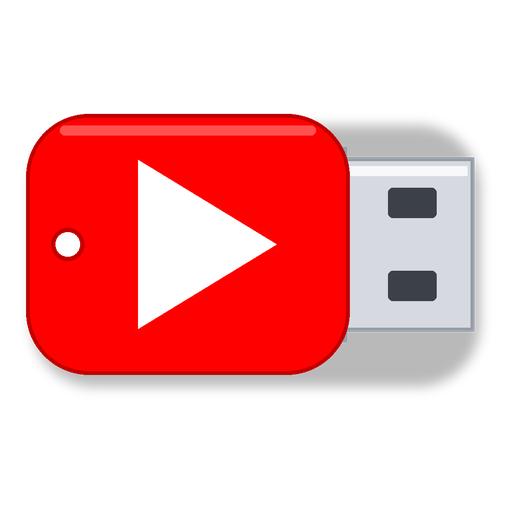
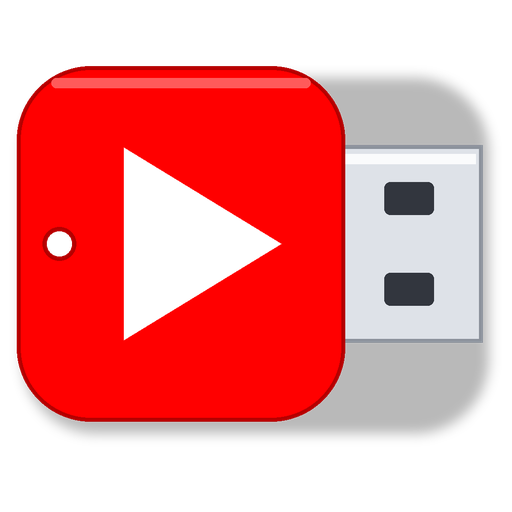
Simge: gorev cubugu boyutlari icin ayri, kalin ve kontrastli cizim
Yatay sekil kareyi yarim dolduruyordu: 20-32 px'te kucuk ve bulanik gorunuyordu.  Kucuk boyutlar (<64 px) icin govdesi
karenin ~%80'ini dolduran, buyuk oynat isaretli, iki delikli USB basligi acik gri ayri bir cizim; 20 ve 40 px boyutlari eklendi.

diff --git a/ikon/ikon_uret.py b/ikon/ikon_uret.py
@@ -1,7 +1,8 @@
 """YT-Arsiv simgesini uretir: ikon\\yt-arsiv.ico (16-256 px) + ikon\\yt-arsiv.png (onizleme).
 
 Tasarim: YATAY USB FLAS BELLEK.  Solda YouTube kirmizisi govde ve ortasinda beyaz OYNAT isareti; saga bakan metal USB-A basligi.
-Oynat isareti ile USB basligi AYNI YONE (saga) bakar: "YouTube'dan oynat -> belleğe/diske kaydet".
+Oynat isareti ile USB basligi AYNI YONE (saga) bakar: "YouTube'dan oynat -> bellege/diske kaydet".
+Iki cizim: BUYUK (>=48 px: ayrintili) ve KUCUK (gorev cubugu 16-40 px: govde kareye yakin, kalin sekiller, yuksek kontrast).
 Calistirma:  python ikon\\ikon_uret.py   (Pillow gerekir; yalniz simge degisecekse)
 """
 from pathlib import Path
@@ -11,70 +12,65 @@ from PIL import Image, ImageDraw, ImageFilter
 KLASOR = Path(__file__).resolve().parent
 S = 1024                          # cizim boyutu (sonra kuculur: kenar yumusatma)
 KIRMIZI = (255, 0, 0, 255)        # YouTube kirmizisi
-KIRMIZI_KOYU = (190, 0, 0, 255)
-KIRMIZI_ACIK = (255, 80, 80, 255)
+KIRMIZI_KOYU = (180, 0, 0, 255)
+KIRMIZI_ACIK = (255, 90, 90, 255)
 BEYAZ = (255, 255, 255, 255)
-METAL = (214, 218, 224, 255)      # USB basligi (gumus)
-METAL_KOYU = (150, 156, 166, 255)
-METAL_ACIK = (246, 248, 250, 255)
-DELIK = (60, 64, 72, 255)
+METAL = (222, 226, 232, 255)      # USB basligi (gumus)
+METAL_KOYU = (140, 146, 156, 255)
+METAL_ACIK = (250, 251, 252, 255)
+DELIK = (50, 54, 62, 255)
 GOLGE = (0, 0, 0, 70)
 
 
-def ciz(ayrinti=True):
+def ciz(kucuk=False):
     im = Image.new("RGBA", (S, S), (0, 0, 0, 0))
     cy = S // 2
-    # --- olculer ---
-    g_sol, g_sag = 50, 720                                   # govde x araligi
-    g_h = 540                                                # govde yuksekligi
+    # --- olculer: kucukte govde daha yuksek, baslik daha kisa (kareyi doldurur) ---
+    g_sol, g_sag = 40, 700 if kucuk else 705
+    g_h = 820 if kucuk else 720
     g_ust, g_alt = cy - g_h // 2, cy + g_h // 2
-    r = 130
-    b_sol, b_sag = g_sag - 40, S - 46                        # baslik x araligi (govdeye biner)
-    b_h = 360
+    r = 170 if kucuk else 150
+    b_sol, b_sag = g_sag - 40, S - 40
+    b_h = 440 if kucuk else 400
     b_ust, b_alt = cy - b_h // 2, cy + b_h // 2
 
-    # golge
-    g = Image.new("RGBA", (S, S), (0, 0, 0, 0))
-    ImageDraw.Draw(g).rounded_rectangle((g_sol + 12, g_ust + 24, b_sag + 12, g_alt + 24), radius=r, fill=GOLGE)
-    im.alpha_composite(g.filter(ImageFilter.GaussianBlur(12)))
+    if not kucuk:                                           # golge (yalniz buyuk boyutta)
+        g = Image.new("RGBA", (S, S), (0, 0, 0, 0))
+        ImageDraw.Draw(g).rounded_rectangle((g_sol + 12, g_ust + 24, b_sag + 12, g_alt + 24), radius=r, fill=GOLGE)
+        im.alpha_composite(g.filter(ImageFilter.GaussianBlur(12)))
     d = ImageDraw.Draw(im)
 
-    # --- USB-A basligi (metal, saga bakar) --- govdenin ARKASINDA cizilir (govde onu kismen kapatir)
+    # --- USB-A basligi (metal, saga bakar): govdenin ARKASINDA ---
     d.rectangle((b_sol, b_ust, b_sag, b_alt), fill=METAL)
-    d.rectangle((b_sol, b_ust, b_sag, b_alt), outline=METAL_KOYU, width=8)
-    d.rectangle((b_sol + 14, b_ust + 18, b_sag - 14, b_ust + 38), fill=METAL_ACIK)           # ust parlak serit
-    # iki baglanti deligi (alt alta: baslik saga baktigi icin)
-    dh, dw = 62, 100
-    dx = b_sol + 120
-    if ayrinti:
-        d.rounded_rectangle((dx, cy - 86 - dh // 2, dx + dw, cy - 86 + dh // 2), radius=10, fill=DELIK)
-        d.rounded_rectangle((dx, cy + 86 - dh // 2, dx + dw, cy + 86 + dh // 2), radius=10, fill=DELIK)
-    else:
-        d.rectangle((dx - 6, cy - 120, dx + dw + 20, cy - 40), fill=DELIK)
-        d.rectangle((dx - 6, cy + 40, dx + dw + 20, cy + 120), fill=DELIK)
-    # baslik - govde birlesim halkasi
-    d.rectangle((b_sol - 6, b_ust - 22, b_sol + 34, b_alt + 22), fill=METAL_KOYU)
+    d.rectangle((b_sol, b_ust, b_sag, b_alt), outline=METAL_KOYU, width=14 if kucuk else 8)
+    if not kucuk:
+        d.rectangle((b_sol + 14, b_ust + 18, b_sag - 14, b_ust + 38), fill=METAL_ACIK)
+    # iki baglanti deligi (alt alta)
+    dh, dw = (96, 150) if kucuk else (66, 100)
+    dx = b_sol + (130 if kucuk else 120)
+    ofs = 105 if kucuk else 92
+    d.rounded_rectangle((dx, cy - ofs - dh // 2, dx + dw, cy - ofs + dh // 2), radius=12, fill=DELIK)
+    d.rounded_rectangle((dx, cy + ofs - dh // 2, dx + dw, cy + ofs + dh // 2), radius=12, fill=DELIK)
+    d.rectangle((b_sol - 6, b_ust - 22, b_sol + 36, b_alt + 22), fill=METAL_KOYU)           # birlesim halkasi
 
     # --- govde (YouTube kirmizisi) ---
     d.rounded_rectangle((g_sol, g_ust, g_sag, g_alt), radius=r, fill=KIRMIZI)
-    d.rounded_rectangle((g_sol, g_ust, g_sag, g_alt), radius=r, outline=KIRMIZI_KOYU, width=8)
-    if ayrinti:
-        d.rounded_rectangle((g_sol + 70, g_ust + 24, g_sag - 70, g_ust + 44), radius=10, fill=KIRMIZI_ACIK)   # ust isik yansimasi
+    d.rounded_rectangle((g_sol, g_ust, g_sag, g_alt), radius=r, outline=KIRMIZI_KOYU, width=14 if kucuk else 8)
+    if not kucuk:
+        d.rounded_rectangle((g_sol + 70, g_ust + 24, g_sag - 70, g_ust + 44), radius=10, fill=KIRMIZI_ACIK)
 
-    # --- oynat isareti: govdenin ortasinda, SAGA bakar (USB basligi ile ayni yon) ---
-    px, py = (g_sol + g_sag) // 2 + 6, cy
-    h = 175
+    # --- oynat isareti: govdenin ortasinda, SAGA bakar ---
+    px, py = (g_sol + g_sag) // 2 + (14 if kucuk else 6), cy
+    h = 290 if kucuk else 195
     d.polygon([(px - h * 0.62, py - h), (px - h * 0.62, py + h), (px + h * 1.02, py)], fill=BEYAZ)
-    # anahtarlik deligi (solda)
-    if ayrinti:
+    if not kucuk:                                           # anahtarlik deligi
         d.ellipse((g_sol + 52, cy - 34, g_sol + 52 + 68, cy + 34), fill=(0, 0, 0, 0), outline=KIRMIZI_KOYU, width=9)
     return im
 
 
-def kanvasi_doldur(im, kenar=0.04):
-    """Cizimin saydam kenar bosluklarini kirpar ve kareyi dolduracak sekilde ortalar (yatay sekil kucuk boyutta daha buyuk gorunur)."""
-    kutu = im.getbbox()
-    kes = im.crop(kutu)
+def kanvasi_doldur(im, kenar=0.02):
+    """Cizimin saydam kenar bosluklarini kirpar ve kareyi dolduracak sekilde ortalar."""
+    kes = im.crop(im.getbbox())
     boy = int(max(kes.size) * (1 + 2 * kenar))
     kare = Image.new("RGBA", (boy, boy), (0, 0, 0, 0))
     kare.paste(kes, ((boy - kes.size[0]) // 2, (boy - kes.size[1]) // 2))
@@ -82,9 +78,13 @@ def kanvasi_doldur(im, kenar=0.04):
 
 
 def main():
-    boyutlar = [256, 128, 64, 48, 32, 24, 16]
-    buyuk, kucuk = kanvasi_doldur(ciz(True)), kanvasi_doldur(ciz(False))
-    resimler = [(buyuk if b >= 48 else kucuk).resize((b, b), Image.LANCZOS) for b in boyutlar]
+    boyutlar = [256, 128, 64, 48, 40, 32, 24, 20, 16]
+    buyuk, kucuk = kanvasi_doldur(ciz(False)), kanvasi_doldur(ciz(True))
+    resimler = []
+    for b in boyutlar:
+        kaynak = buyuk if b >= 64 else kucuk
+        r = kaynak.resize((b * 4, b * 4), Image.LANCZOS).resize((b, b), Image.LANCZOS) if b < 64 else kaynak.resize((b, b), Image.LANCZOS)
+        resimler.append(r)
     resimler[0].save(KLASOR / "yt-arsiv.ico", format="ICO", sizes=[(b, b) for b in boyutlar], append_images=resimler[1:])
     buyuk.resize((512, 512), Image.LANCZOS).save(KLASOR / "yt-arsiv.png")
     print("yazildi:", KLASOR / "yt-arsiv.ico", [r.size for r in resimler])
